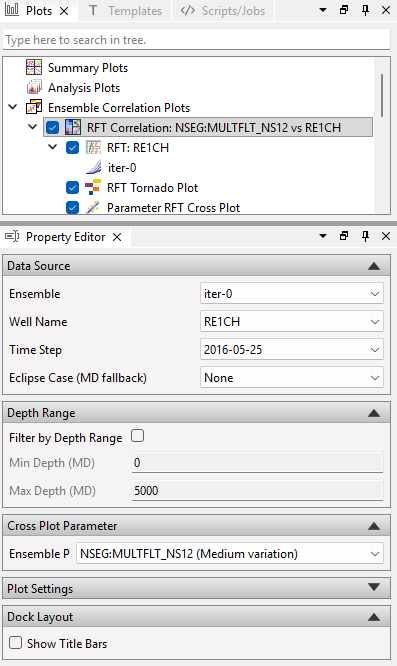
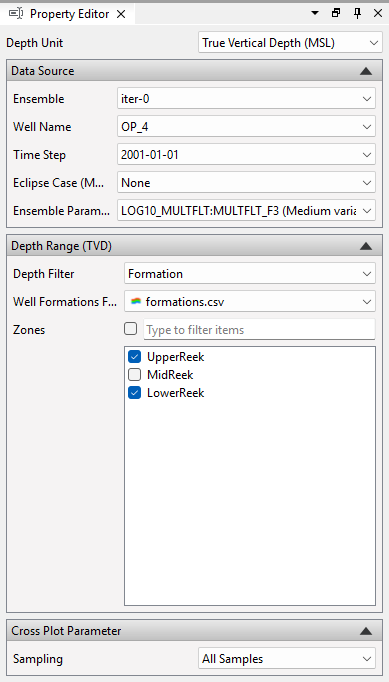
Update RFT correlation plot docs with formation filtering
Covers well formations import, formation selection in the RFT track and observed pressure in the cross plot (OPM/ResInsight#14878, #14880).

diff --git a/content/plot-window/RftCorrelationPlot.md b/content/plot-window/RftCorrelationPlot.md
@@ -8,11 +8,11 @@ weight = 96
 
 The **RFT Correlation Plot** combines an ensemble RFT plot with correlation analysis, making it possible to investigate how ensemble parameters relate to the RFT pressure response. The plot links three coordinated views in a single layout:
 
-- **RFT Plot** -- pressure versus depth (TVDMSL) for the realizations of an ensemble, as in a standard [Ensemble RFT Plot]({{% relref "EnsembleRftPlot" %}}).
+- **RFT Plot** -- pressure versus depth for the realizations of an ensemble, as in a standard [Ensemble RFT Plot]({{% relref "EnsembleRftPlot" %}}). The RFT curves are colored by the selected ensemble parameter.
 - **Tornado Plot** -- the ensemble parameters ranked by their correlation with the RFT pressure, shown as a tornado plot of the [Pearson correlation coefficient]({{% relref "CorrelationPlots" %}}). Positive correlations extend to the right, negative correlations to the left.
-- **Cross Plot** -- the selected ensemble parameter plotted against the mean RFT pressure, with one point per realization.
+- **Cross Plot** -- the selected ensemble parameter plotted against the RFT pressure, with one point per realization, together with the observed pressure.
 
-The three views are connected: selecting a bar in the **Tornado Plot** updates the **Cross Plot** to show that parameter against the RFT pressure, so the strongest correlations can be inspected in detail.
+The three views are connected: selecting a bar in the **Tornado Plot** updates the **Cross Plot** and the RFT curve coloring to use that parameter, and clicking a formation in the **RFT Plot** restricts the correlation to that formation.
 
 ## Create New RFT Correlation Plot
 
@@ -20,35 +20,76 @@ An RFT Correlation Plot is created from an existing [Ensemble RFT Plot]({{% relr
 
 The new plot inherits the well, ensemble, and time step from the source RFT plot. It is created under **Ensemble Correlation Plots** in the **Plot Project Tree**, with the three views listed as sub-items: **RFT**, **RFT Tornado Plot**, and **Parameter RFT Cross Plot**. The plot opens in the [Plot Main Window]({{% relref "plot-window" %}}).
 
+The first numeric ensemble parameter is selected by default, and the RFT curves are colored by it. If an imported [well formations file](#well-formations) contains picks for the well, the new plot is set up to filter by formation.
+
+## Well Formations
+
+Formation filtering uses depth-based well picks in the FMU `formations.csv` format. Each row defines the top and base of a zone in a well:
+
+```
+X_UTME,Y_UTMN,TOP_TVD,TOP_MD,ZONE_CODE,WELL,BASE_TVD,BASE_MD,ZONE
+460994.9,5933813.29,1644.0,1693.0,1,R_A2,1662.0,1711.0,Valysar
+460994.9,5933813.29,1662.0,1711.0,2,R_A2,1678.0,1727.0,Therys
+```
+
+To import a file, right-click **Well Picks (Formations)** under **Data Sources** in the **Plot Project Tree** and select **Import Well Formations...**. Selecting an imported file shows its content as a table in the **Property Editor**.
+
+Well picks are independent of K-layer based formation names (`.lyr` files) and do not require a well path trajectory. The RFT track in the correlation plot uses the **Well Picks (no trajectory)** formation source, which looks up the zones in the file by well name and shows them as colored formation shading. The **Add Well Picks** button in the track's formation settings imports a file and selects it in one step.
+
 ## Property Editor
 
-The property editor controls the data source and appearance of the plot.
+All data source and filter settings are controlled from the property editor of the RFT Correlation Plot itself. The property editor of the **Parameter RFT Cross Plot** sub-item only contains plot appearance settings.
 
 ![](/images/plot-window/RftCorrelationPlotPropertyEditor.png)
+
+- **Depth Unit** -- measured depth (MD) or true vertical depth (TVD), used for the depth axis and the depth filter in all three views.
 
 #### Data Source
 - **Ensemble** -- the ensemble to analyse.
 - **Well Name** -- the well whose RFT pressure is correlated against the ensemble parameters.
 - **Time Step** -- the single time step the correlation report is computed for.
 - **Eclipse Case (MD fallback)** -- a reservoir simulation case used to resolve measured depth (MD) when it cannot be derived otherwise. (*Eclipse* here refers to the *Eclipse® reservoir simulator*; Eclipse is a registered trademark of Schlumberger.)
+- **Ensemble Parameter** -- the parameter shown in the **Cross Plot** and used to color the RFT curves. Selecting a bar in the **Tornado Plot** updates this field.
 
 #### Depth Range
-- **Filter by Depth Range** -- when enabled, restricts the correlation to a depth interval.
-- **Min Depth (MD)** / **Max Depth (MD)** -- the measured-depth bounds of the interval.
+The group title shows the active depth unit, for example **Depth Range (MD)**.
+
+- **Depth Filter** -- restricts the RFT samples used by the **Tornado Plot** and the **Cross Plot**:
+  - **None** -- all RFT samples for the well are used.
+  - **Depth Range** -- only samples between **Min Depth** and **Max Depth** are used.
+  - **Formation** -- only samples within the selected formations are used. Select a **Well Formations File**, then one or more **Zones**.
+
+The active filter is marked in the **RFT Plot** by a bar along the depth axis, and is included in the plot titles.
 
 #### Cross Plot Parameter
-- **Ensemble Parameter** -- the parameter shown in the **Cross Plot**. Selecting a bar in the **Tornado Plot** updates this field, and changing it here updates the **Cross Plot** accordingly.
+- **Sampling** -- how RFT samples are represented in the **Cross Plot**:
+  - **Mean per Realization** -- one point per realization, using the mean pressure of the filtered samples.
+  - **All Samples** -- one point per filtered RFT sample.
 
 #### Dock Layout
 - **Show Title Bars** -- shows the dock title bars so the panels can be rearranged. See [Modifying the Layout](#modifying-the-layout).
 
+## Select Formations in the RFT Plot
+
+When well formations are available for the well, the formation zones are shaded in the **RFT Plot**. Click a zone to add it to the formation filter, and click it again to remove it. Several zones can be selected at once. Clicking a zone switches **Depth Filter** to **Formation** if another filter was active.
+
+Selected zones are marked by a bar along the depth axis, and the **Tornado Plot** and **Cross Plot** are updated to use only the RFT samples within those zones.
+
 ## Parameter Correlation
 
-The tornado view ranks each ensemble parameter by how strongly it correlates with the RFT pressure. In the example above, *LOG10_NSEG:PETRO_PV_TIU_S* has the strongest positive correlation (0.72), while *NSEG:MULTFLT_NS12* has the strongest negative correlation (-0.64). The correlation factor is computed in the same manner as for [Correlation Plots]({{% relref "CorrelationPlots" %}}).
+The tornado view ranks each ensemble parameter by how strongly it correlates with the RFT pressure within the active depth filter. The bar of the selected **Ensemble Parameter** is highlighted. In the example above, filtered to the zones *UpperReek* and *LowerReek*, *RI:REALIZATION_NUM* has the strongest positive correlation (0.62), while the selected parameter *LOG10_MULTFLT:MULTFLT_F3* has the strongest negative correlation (-0.35). The correlation factor is computed in the same manner as for [Correlation Plots]({{% relref "CorrelationPlots" %}}).
 
 ## Parameter Cross Plot
 
-The cross plot shows the mean RFT pressure of each realization against the value of the selected ensemble parameter, with each realization drawn as a separate point. This reveals the shape of the relationship behind the correlation coefficient -- for example whether the trend is linear or driven by a few outlying realizations.
+The cross plot shows the RFT pressure of each realization against the value of the selected ensemble parameter. This reveals the shape of the relationship behind the correlation coefficient -- for example whether the trend is linear or driven by a few outlying realizations.
+
+The observed RFT pressure within the active depth filter is drawn as a horizontal line, showing which parameter values give simulated pressures that match the observations:
+
+![](/images/plot-window/RftCorrelationCrossPlotObserved.png)
+
+- A single observation is drawn as a solid line, with dashed lines and a shaded band at plus and minus the observation error.
+- Several observations within the same formation are combined into one line at their mean pressure, labelled *Observed Pressure (average of N observations)*. The dashed lines and band span the full range of these observations, including their errors.
+- When formation shading is available, each observed pressure is drawn in the color of its formation.
 
 ## Show Plot Data
 
